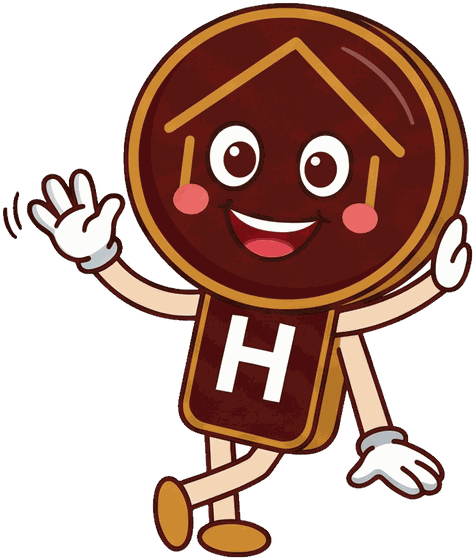
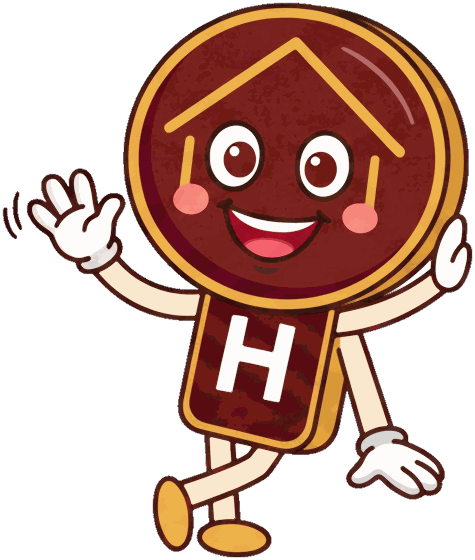
v66: recolor + head-size normalize the 24 sit/lie/lean poses to match the original set (poses unchanged)
Claude-Session: https://claude.ai/code/session_01GjEw2PvKMM2sJzV91pqQAv

diff --git a/mascot.js b/mascot.js
@@ -13,9 +13,10 @@ const POSES = {
 const STICKERS = [['224885ee_1','ยินดีต้อนรับ (โบกมือ)'],['224885ee_2','ยอดเยี่ยม Great!'],['224885ee_3','ฉลอง Celebrate'],['224885ee_4','ถือป้ายยินดีต้อนรับ'],['224885ee_5','ชี้ทาง This way'],['224885ee_6','ส่งหัวใจ Love'],['d73801cf_1','ไอเดีย Idea'],['d73801cf_2','ขอบคุณ Thank you'],['d73801cf_3','ถ่ายรูป Snap!'],['d73801cf_4','วิ่งมาแล้ว On my way'],['d73801cf_5','โอเค OK!'],['d73801cf_6','หัวเราะ Haha'],['d9ae68f2_1','กอดหัวใจ Love'],['d9ae68f2_2','ชนแก้ว Cheers!'],['d9ae68f2_3','ไหว้ Greeting'],['d9ae68f2_4','เต้น Dance'],['d9ae68f2_5','บ้านของคุณ Your Home'],['d9ae68f2_6','ฮัลโหล Hello!'],['9bc64e2a_1','พร้อมเข้าอยู่ Ready to Move'],['9bc64e2a_2','เฟอร์ฯ ครบครัน'],['9bc64e2a_3','จองเลย Book Now'],['9bc64e2a_4','เปิดประตูต้อนรับ'],['9bc64e2a_5','แถมฟรี Free Gift'],['9bc64e2a_6','ราคาเบาๆ Good Price'],['f97a4cb3_2','โปรโมชัน Promotion'],['f97a4cb3_3','พาชมบ้าน Open House'],['f97a4cb3_4','ปิดการขาย Deal'],['f97a4cb3_5','ปรึกษาฟรี Consult'],['f97a4cb3_6','ราคาพิเศษ Special Price'],['258b6b4b_1','มอบกุญแจ Handover'],['258b6b4b_2','ทำความสะอาด Cleaning'],['258b6b4b_3','เซ็นสัญญา Contract'],['258b6b4b_4','โฉนดที่ดิน Deed'],['258b6b4b_5','ทาสี Renovate'],['258b6b4b_6','บ้านใหม่ New Home'],['6b2cc827_1','ยินดีให้บริการครับ!'],['6b2cc827_2','รับฝากขาย-เช่า'],['6b2cc827_3','ขอบคุณที่ไว้วางใจ'],['6b2cc827_4','ยินดีต้อนรับสู่ครอบครัว'],['aee45653_1','ทักมาได้เลยครับ!'],['aee45653_2','อยากได้แบบไหน'],['aee45653_3','หาบ้านเช่า'],['aee45653_4','ยินดีต้อนรับทุกท่าน'],['dad2a4c5_2','ฝากเราทำตลาด'],['dad2a4c5_3','ฝากขายบ้าน'],['dad2a4c5_4','พร้อมดูแล'],['32615200_1','เรื่องขายบ้าน'],['32615200_2','ดันยอดขายให้ปัง!'],['32615200_3','ทำตลาดครบวงจร'],['32615200_4','ยินดีดูแลทุกเคส']];
 STICKERS.forEach(([id, label]) => { POSES['stk_' + id] = { label, custom: true, sticker: true, src: `assets/stk/${id}.png` }; });
 // ท่านั่ง/ยืนพิงขอบจอ (ตัดจากชีตที่เจ้าของส่งมา) · ใช้อัตโนมัติตอนมาสคอตนั่ง/พิงที่มุมซ้าย-ขวา และเลือกเป็นท่าประจำท่อนได้ (ปากไม่ขยับ)
-const POSE_ART = [['e1','lie','L','นอนเท้าคาง: หลับตายิ้ม'],['e2','lie','L','นอนเท้าคาง: โบกมือ'],['e4','lie','R','นอนตะแคง: ขยิบตา'],['f1','lie','R','นอนเท้าคาง: โบกมือ (หัวขวา)'],['f2','lie','R','นอนเท้าคาง: หลับตายิ้ม (หัวขวา)'],['f3','lie','L','นอนตะแคง: ขยิบตา (หัวซ้าย)'],['e3','sit','L','นั่งเท้าแก้ม: ยกนิ้วโป้ง'],['f4','sit','L','นั่งเท้าแก้ม: ยกนิ้วโป้ง 2'],['a1','sit','L','นั่งพิงขอบซ้าย: ยิ้มวางมือบนเข่า'],['a2','sit','L','นั่งพิงขอบซ้าย: โบกมือ'],['a3','sit','L','นั่งพิงขอบซ้าย: ยกนิ้วโป้ง'],['a4','sit','L','นั่งพิงขอบซ้าย: ทำหัวใจ'],['c3','sit','L','นั่งพิงขอบซ้าย: หลับตายิ้ม'],['c4','sit','L','นั่งพิงขอบซ้าย: ขยิบตาทำหัวใจ'],['d1','sit','R','นั่งพิงขอบขวา: โบกมือ'],['d2','sit','R','นั่งพิงขอบขวา: หลับตายิ้ม'],['d3','sit','R','นั่งพิงขอบขวา: ขยิบตาทำหัวใจ'],['d4','sit','R','นั่งพิงขอบขวา: ยกนิ้วโป้ง'],['b3','sit','R','นั่งพิงขอบขวา: ขยิบตาทำหัวใจ 2'],['b4','sit','R','นั่งพิงขอบขวา: หลับตายิ้ม 2'],['c1','lean','L','ยืนพิงขอบซ้าย: เท้าเอว'],['c2','lean','L','ยืนพิงขอบซ้าย: โบกมือ'],['b1','lean','R','ยืนพิงขอบขวา: โบกมือ'],['b2','lean','R','ยืนพิงขอบขวา: เท้าเอว']];
+const POSE_ART = [['e1','lie','L','นอนเท้าคาง: หลับตายิ้ม',0.809],['e2','lie','L','นอนเท้าคาง: โบกมือ',0.822],['e4','lie','R','นอนตะแคง: ขยิบตา',0.782],['f1','lie','R','นอนเท้าคาง: โบกมือ (หัวขวา)',0.825],['f2','lie','R','นอนเท้าคาง: หลับตายิ้ม (หัวขวา)',0.812],['f3','lie','L','นอนตะแคง: ขยิบตา (หัวซ้าย)',0.784],['e3','sit','L','นั่งเท้าแก้ม: ยกนิ้วโป้ง',0.928],['f4','sit','L','นั่งเท้าแก้ม: ยกนิ้วโป้ง 2',0.934],['a1','sit','L','นั่งพิงขอบซ้าย: ยิ้มวางมือบนเข่า',0.935],['a2','sit','L','นั่งพิงขอบซ้าย: โบกมือ',0.933],['a3','sit','L','นั่งพิงขอบซ้าย: ยกนิ้วโป้ง',0.944],['a4','sit','L','นั่งพิงขอบซ้าย: ทำหัวใจ',0.943],['c3','sit','L','นั่งพิงขอบซ้าย: หลับตายิ้ม',0.946],['c4','sit','L','นั่งพิงขอบซ้าย: ขยิบตาทำหัวใจ',0.945],['d1','sit','R','นั่งพิงขอบขวา: โบกมือ',0.941],['d2','sit','R','นั่งพิงขอบขวา: หลับตายิ้ม',0.941],['d3','sit','R','นั่งพิงขอบขวา: ขยิบตาทำหัวใจ',0.946],['d4','sit','R','นั่งพิงขอบขวา: ยกนิ้วโป้ง',0.948],['b3','sit','R','นั่งพิงขอบขวา: ขยิบตาทำหัวใจ 2',0.943],['b4','sit','R','นั่งพิงขอบขวา: หลับตายิ้ม 2',0.944],['c1','lean','L','ยืนพิงขอบซ้าย: เท้าเอว',1.013],['c2','lean','L','ยืนพิงขอบซ้าย: โบกมือ',1.013],['b1','lean','R','ยืนพิงขอบขวา: โบกมือ',1.012],['b2','lean','R','ยืนพิงขอบขวา: เท้าเอว',1.017]];
 const SITS = { L: [], R: [] }, LEANS = { L: [], R: [] }, LIES = [], ART_IDS = [];
-POSE_ART.forEach(([id, kind, side, label]) => { const k = 'art_' + id; POSES[k] = { label, custom: true, art: true, src: `assets/pose/${id}.png` }; (kind === 'lie' ? LIES : (kind === 'sit' ? SITS : LEANS)[side]).push(k); ART_IDS.push(k); });
+const ARTF = {};
+POSE_ART.forEach(([id, kind, side, label, fh]) => { ARTF['art_' + id] = fh; const k = 'art_' + id; POSES[k] = { label, custom: true, art: true, src: `assets/pose/${id}.png` }; (kind === 'lie' ? LIES : (kind === 'sit' ? SITS : LEANS)[side]).push(k); ART_IDS.push(k); });
 // ท่าพิเศษที่อัปโหลดเอง (รูปมาสคอตที่สร้างจาก AI) · ไม่มีตำแหน่งหัว จึงไม่ทับปาก/ตา (ใช้ภาพยิ้มตามต้นฉบับ)
 const MY_POSES = [
   { id: 'my_sitL', label: 'นั่งพิงขอบซ้าย', hint: 'ใช้ตอนมาสคอตนั่งที่มุมซ้ายของจอ',
@@ -162,8 +163,9 @@ draw(ctx, W, H, t) {
     else if (sp.mv === 'lean') { lean = _r(k, L * 0.15, 0.7) * (1 - _r(k, L * 0.85 - 0.7, 0.7)); }
     else if (sp.mv === 'lie') { const a = L * (0.2 + 0.2 * R[1]), b2 = a + Math.min(4.5, L * 0.35); lie = _r(k, a, 0.9) * (1 - _r(k, b2, 0.9)); }
   }
-  const sideL = X(f) < W / 2, pk = (arr, ex) => (arr.length ? MASCOT_IMG[this.random && sp.r ? arr[Math.floor(sp.r[ex] * arr.length) % arr.length] : arr[(((sp.seed || 0) * 3 + ex) % arr.length)]] : null);
-  const csImg = (sideL ? MASCOT_IMG.my_sitL : MASCOT_IMG.my_sitR) || pk(sideL ? SITS.L : SITS.R, 0), clImg = MASCOT_IMG.my_lie || pk(LIES, 2), lnImg = lean > 0 ? pk(sideL ? LEANS.L : LEANS.R, 1) : null; let cA = 0, cI = '';
+  const sideL = X(f) < W / 2, pkk = (arr, ex) => (arr.length ? (this.random && sp.r ? arr[Math.floor(sp.r[ex] * arr.length) % arr.length] : arr[(((sp.seed || 0) * 3 + ex) % arr.length)]) : null);
+  const mySit = sideL ? MASCOT_IMG.my_sitL : MASCOT_IMG.my_sitR, csK = mySit ? null : pkk(sideL ? SITS.L : SITS.R, 0), clK = MASCOT_IMG.my_lie ? null : pkk(LIES, 2), lnK = lean > 0 ? pkk(sideL ? LEANS.L : LEANS.R, 1) : null;
+  const csImg = mySit || (csK && MASCOT_IMG[csK]), clImg = MASCOT_IMG.my_lie || (clK && MASCOT_IMG[clK]), lnImg = lnK && MASCOT_IMG[lnK]; let cA = 0, cI = '';
   if (sit > 0 && csImg) { cA = sit; cI = 'sit'; sit = 0; } else if (lie > 0 && clImg) { cA = lie; cI = 'lie'; lie = 0; } else if (lean > 0 && lnImg) { cA = lean; cI = 'lean'; } // มีรูปท่านั่ง/นอนที่อัปโหลดไว้ → ใช้รูปนั้นแทนการย่อ/หมุนตัว
   let cx = X(f), step = walk ? Math.abs(Math.sin(k * Math.PI * 2.3)) : 0, hop = k < 0.4 ? (1 - k / 0.4) * H * 0.07 : 0;
   const bob = Math.sin(t * 2.6) * H * 0.004 * (1 - lie), flip = walk ? (dir < 0 ? 1 : 0) : (cx > W / 2 ? 1 : 0);
@@ -178,7 +180,7 @@ draw(ctx, W, H, t) {
   ctx.translate(cx, bottom); ctx.scale(idl.sx, idl.sy); ctx.translate(-cx, -bottom);
   drawMascotTalking(ctx, sp.pose, cx, bottom, h, { mouth: mo.m, wf: mo.wf, blink: lie > 0.6 ? 1 : blinkAt(t, sp.seed || 0), yoff, rot });
   ctx.restore();
-  if (cA > 0) { const im = cI === 'sit' ? csImg : cI === 'lean' ? lnImg : clImg, hh = h * (cI === 'sit' ? 0.8 : cI === 'lean' ? 0.86 : 0.72), ww = im.width * hh / im.height, x = cI !== 'lie' ? (sideL ? ww / 2 : W - ww / 2) : Math.min(W - ww / 2 - mg, Math.max(ww / 2 + mg, X(f)));
+  if (cA > 0) { const im = cI === 'sit' ? csImg : cI === 'lean' ? lnImg : clImg, hh = h * (cI === 'sit' ? (csK ? ARTF[csK] : 0.8) : cI === 'lean' ? (lnK ? ARTF[lnK] : 0.86) : (clK ? ARTF[clK] : 0.72)), ww = im.width * hh / im.height, x = cI !== 'lie' ? (sideL ? ww / 2 : W - ww / 2) : Math.min(W - ww / 2 - mg, Math.max(ww / 2 + mg, X(f)));
     ctx.save(); ctx.globalAlpha = cA; const ia = cI === 'lie' ? 0.6 : 1; ctx.translate(x, bottom); ctx.rotate(idl.rot * (cI === 'lie' ? 0.5 : 1)); ctx.scale(idl.sx, idl.sy); ctx.translate(-x, -bottom + idl.dy * H * ia); ctx.drawImage(im, x - ww / 2, bottom - hh, ww, hh); ctx.restore(); }
   if (lie > 0.85) { ctx.save(); ctx.fillStyle = 'rgba(255,255,255,.9)'; ctx.strokeStyle = 'rgba(90,24,32,.8)'; ctx.lineWidth = H * 0.003; ctx.textAlign = 'left'; ['z', 'Z', 'Z'].forEach((c, i) => { const q = ((t * 0.6 + i * 0.33) % 1), fs = H * (0.022 + i * 0.01); ctx.globalAlpha = Math.sin(Math.PI * q) * lie; ctx.font = `700 ${fs}px sans-serif`; const px = cx - h * 1.0 + q * H * 0.05 + i * H * 0.02, py = H - H * 0.015 - w * 0.9 - q * H * 0.07; ctx.strokeText(c, px, py); ctx.fillText(c, px, py); }); ctx.restore(); }
 } };

diff --git a/app.js b/app.js
@@ -1287,7 +1287,7 @@ async function viewMascot() {
     ${segs.map(g => { const cur = poseForSeg(g.key); return `<div class="seg"><div class="seg-h"><b>${String(g.no).padStart(2, '0')} · ${g.label}</b></div><div class="mrow"><canvas class="mth" data-pk="${g.key}" width="90" height="130"></canvas><button class="btn alt pickp" data-pose="${g.key}">${POSES[cur].label} ▾<small>แตะเพื่อเลือกจากรูป</small></button></div></div>`; }).join('') || '<div class="soon">ยังไม่มีท่อนเล่าเรื่อง</div>'}
     <p class="hint">ปากขยับตามความดังของเสียงพากย์จริง ตอนเรนเดอร์ (ถ้ายังไม่ใส่เสียง ปากจะปิด) · มาสคอตกระโดดเข้าจอทุกครั้งที่เริ่มท่อนใหม่ · มาสคอตเดินข้ามจอ นั่ง นอน สลับไปในแต่ละท่อน</p>
     <button class="btn" id="nx">ถัดไป: 7 เรนเดอร์ →</button><button class="btn alt" id="bk">← ย้อนกลับ</button>`;
-  const thumb = (cv, pose) => { const x = cv.getContext('2d'), img = MASCOT_IMG[pose]; x.clearRect(0, 0, cv.width, cv.height); if (!img) return; const cw = cv.width, ch = cv.height; if (POSES[pose] && POSES[pose].custom) { const s = Math.min((ch - 6) / img.height, (cw - 6) / img.width); x.drawImage(img, (cw - img.width * s) / 2, ch - 3 - img.height * s, img.width * s, img.height * s); } else drawMascotTalking(x, pose, cw / 2, ch - 3, ch - 6, { mouth: 0.45, wf: 1, blink: 0 }); };
+  const thumb = (cv, pose) => { const x = cv.getContext('2d'), img = MASCOT_IMG[pose]; x.clearRect(0, 0, cv.width, cv.height); if (!img) return; const cw = cv.width, ch = cv.height; if (POSES[pose] && POSES[pose].custom) { const s = Math.min((ch - 6) * (typeof ARTF !== 'undefined' && ARTF[pose] || 1) / img.height, (cw - 6) / img.width); x.drawImage(img, (cw - img.width * s) / 2, ch - 3 - img.height * s, img.width * s, img.height * s); } else drawMascotTalking(x, pose, cw / 2, ch - 3, ch - 6, { mouth: 0.45, wf: 1, blink: 0 }); };
   const paint = cv => thumb(cv, poseForSeg(cv.dataset.pk));
   document.querySelectorAll('.mth[data-pk]').forEach(paint);
   document.querySelectorAll('.myth').forEach(cv => thumb(cv, cv.dataset.my));

diff --git a/index.html b/index.html
@@ -8,22 +8,22 @@
 <link rel="manifest" href="manifest.webmanifest">
 <link rel="icon" href="icon-192.png">
 <link rel="apple-touch-icon" href="icon-192.png">
-<link rel="stylesheet" href="style.css?v=65">
+<link rel="stylesheet" href="style.css?v=66">
 </head>
 <body>
-<header>huahin . studio <small>ทำคลิปโปรโมตบ้าน · v65</small><button id="homeBtn" class="hbtn">🏠 คลิปของฉัน</button></header>
+<header>huahin . studio <small>ทำคลิปโปรโมตบ้าน · v66</small><button id="homeBtn" class="hbtn">🏠 คลิปของฉัน</button></header>
 <nav class="steps" id="steps"></nav>
 <div class="sb" id="sb"></div>
 <main id="view"></main>
-<script src="lib/mp4-muxer.js?v=65"></script>
-<script src="color.js?v=65"></script>
-<script src="renderer.js?v=65"></script>
-<script src="overlay.js?v=65"></script>
-<script src="exporter.js?v=65"></script>
-<script src="mascot.js?v=65"></script>
-<script src="scenes.js?v=65"></script>
-<script src="storyboard.js?v=65"></script>
-<script src="projects.js?v=65"></script>
-<script src="app.js?v=65"></script>
+<script src="lib/mp4-muxer.js?v=66"></script>
+<script src="color.js?v=66"></script>
+<script src="renderer.js?v=66"></script>
+<script src="overlay.js?v=66"></script>
+<script src="exporter.js?v=66"></script>
+<script src="mascot.js?v=66"></script>
+<script src="scenes.js?v=66"></script>
+<script src="storyboard.js?v=66"></script>
+<script src="projects.js?v=66"></script>
+<script src="app.js?v=66"></script>
 </body>
 </html>

diff --git a/sw.js b/sw.js
@@ -1,5 +1,5 @@
 // Service worker: ทำให้แอปเปิดได้แม้ไม่มีเน็ต (เปลี่ยนเลขเวอร์ชันทุกครั้งที่แก้ไฟล์)
-const VER = 'studio-v65';
+const VER = 'studio-v66';
 const FILES = ['./', 'index.html', 'style.css', 'app.js', 'projects.js', 'renderer.js','overlay.js', 'color.js', 'storyboard.js', 'scenes.js', 'mascot.js', 'assets/celebrate.png', 'assets/cheers.png', 'assets/cleaning.png', 'assets/dance.png', 'assets/furnished.png', 'assets/great.png', 'assets/greeting.png', 'assets/handover.png', 'assets/happy.png', 'assets/hello.png', 'assets/idea.png', 'assets/love.png', 'assets/newhome.png', 'assets/ok.png', 'assets/ready.png', 'assets/thanks.png', 'assets/thisway.png', 'assets/wave.png', 'assets/welcome.png', 'assets/yourhome.png', 'exporter.js', 'lib/mp4-muxer.js', 'manifest.webmanifest', 'icon-192.png', 'icon-512.png'];
 self.addEventListener('install', e => { e.waitUntil(caches.open(VER).then(c => c.addAll(FILES))); self.skipWaiting(); });
 self.addEventListener('activate', e => {
